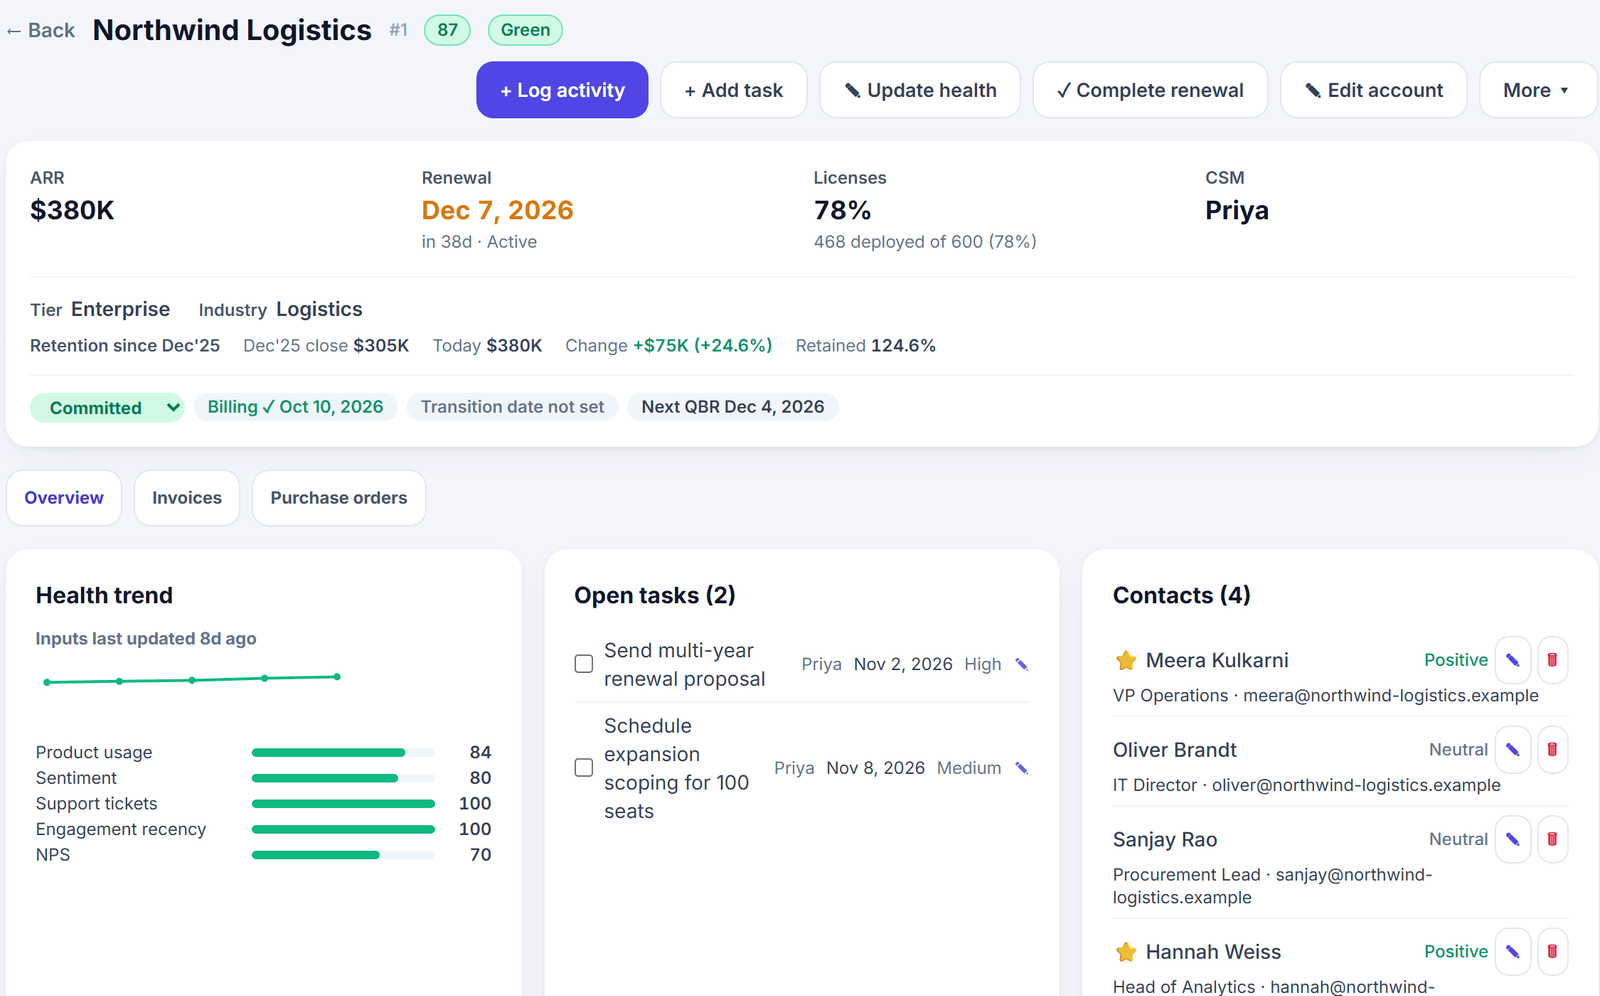
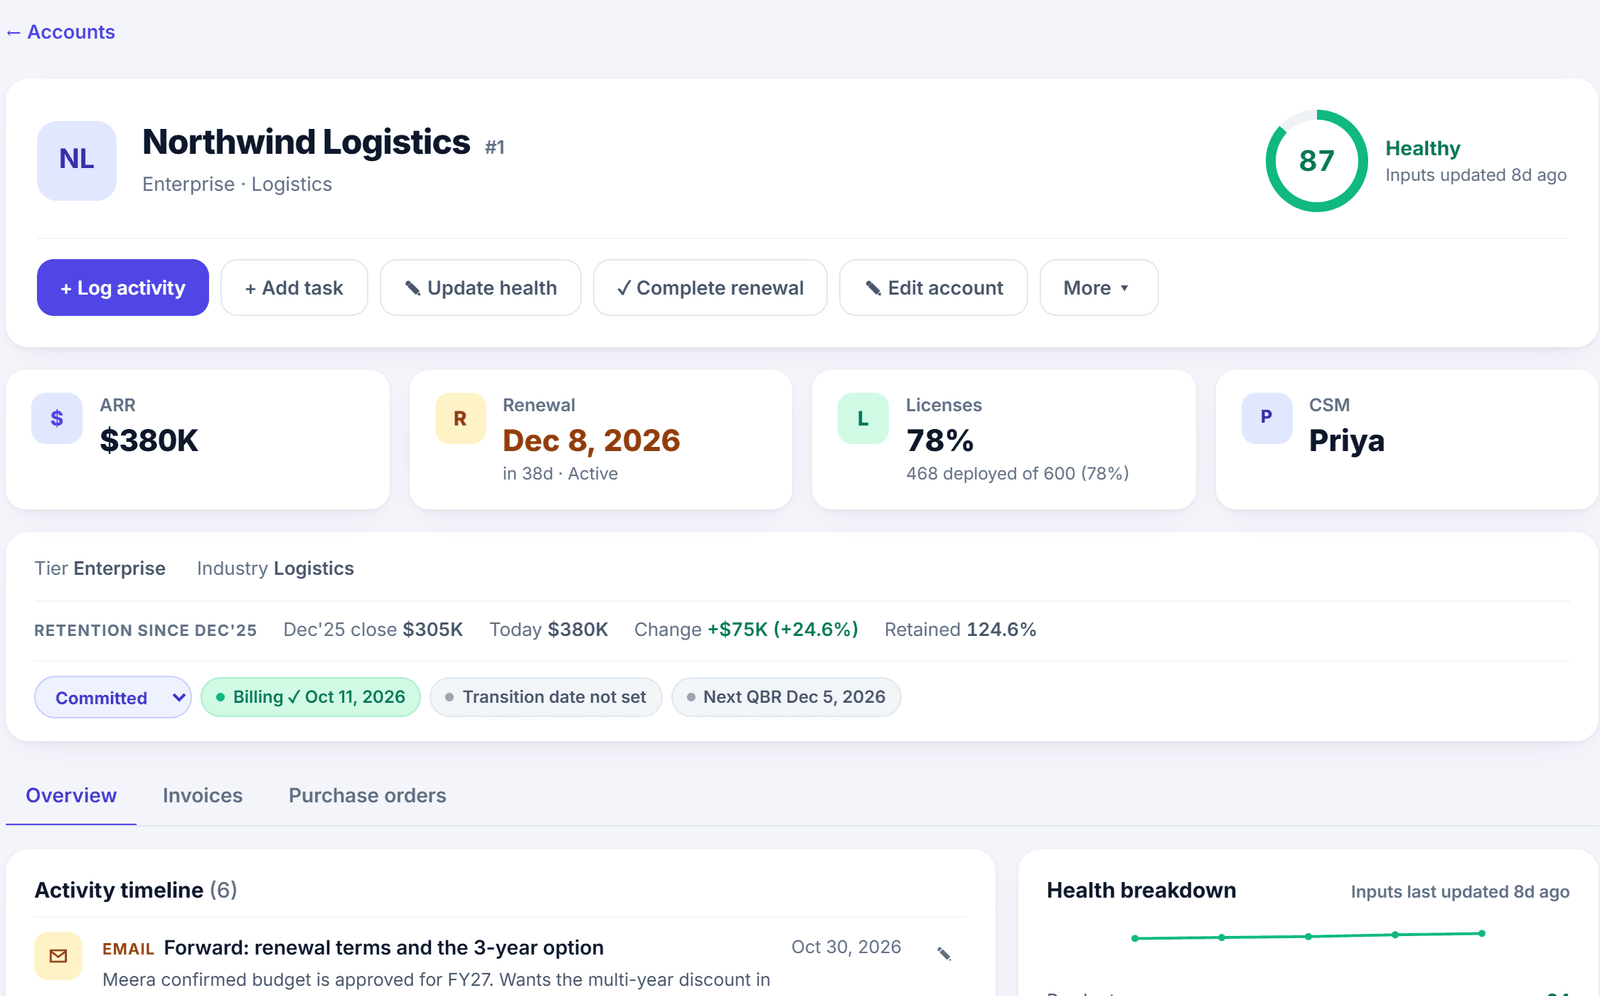
Health page: Stage 4 account screenshot and copy

diff --git a/customer-health-score/index.html b/customer-health-score/index.html
@@ -125,7 +125,14 @@
       <img src="/assets/shots/customer-health-score-1600.png" alt="OneVio accounts list sorted by health score, with Red, Yellow and Green scores beside NRR, GRR and renewal flags" width="1600" height="924" loading="lazy" decoding="async">
     </picture>
   </figure>
-  <p>On the account page, the Health trend card plots the score over time and says when the inputs were last updated, with a prompt to refresh them once they are 30 days old. The date turns amber at 30 days and red at 45: a score built on stale inputs is flagged so you know to refresh it.</p>
+  <h3>Every account on one page</h3>
+  <figure class="browser shot"><div class="chrome" aria-hidden="true"><i></i><i></i><i></i><span class="url">crm.onevio.in</span></div>
+    <picture>
+      <source type="image/webp" srcset="/assets/shots/customer-account-record-800.webp 800w, /assets/shots/customer-account-record-1600.webp 1600w" sizes="(max-width: 760px) calc(100vw - 32px), 720px" width="1600" height="996">
+      <img src="/assets/shots/customer-account-record-1600.png" alt="OneVio account page for Northwind Logistics: health score 87 in a ring marked Healthy, ARR, renewal date, license deployment and CSM cards, retention since last close, the activity timeline and the health breakdown by input" width="1600" height="996" loading="lazy" decoding="async">
+    </picture>
+  </figure>
+  <p>Open an account and its score sits in the header as a ring with the band in words, plus when the inputs were last updated. Below it are ARR, the renewal date with days to go, license deployment and the CSM. The Health breakdown card plots the score over time and shows each input’s score, next to the activity timeline that feeds engagement recency. Inputs older than 30 days get a prompt to refresh them. The date turns amber at 30 days and red at 45, so a score built on stale inputs is flagged.</p>
 
   <h2>Who uses it</h2>
   <p><strong>CSMs</strong> sort their book by score and work the Red and Yellow accounts first. <strong>CS managers</strong> watch the health mix and the bell to see which accounts are sliding before a renewal is in danger. <strong>Leaders</strong> get a score whose weights they signed off, which makes it far easier to bring into a forecast or a QBR. To see how health feeds the rest of the renewal process, read about <a href="/renewal-management/">renewal management</a>. Designing a score from scratch? Read our <a href="/customer-health-score-guide/">step-by-step health score guide</a>.</p>

diff --git a/pages/customer-health-score.html b/pages/customer-health-score.html
@@ -124,7 +124,14 @@
       <img src="/assets/shots/customer-health-score-1600.png" alt="OneVio accounts list sorted by health score, with Red, Yellow and Green scores beside NRR, GRR and renewal flags" width="1600" height="924" loading="lazy" decoding="async">
     </picture>
   </figure>
-  <p>On the account page, the Health trend card plots the score over time and says when the inputs were last updated, with a prompt to refresh them once they are 30 days old. The date turns amber at 30 days and red at 45: a score built on stale inputs is flagged so you know to refresh it.</p>
+  <h3>Every account on one page</h3>
+  <figure class="browser shot"><div class="chrome" aria-hidden="true"><i></i><i></i><i></i><span class="url">crm.onevio.in</span></div>
+    <picture>
+      <source type="image/webp" srcset="/assets/shots/customer-account-record-800.webp 800w, /assets/shots/customer-account-record-1600.webp 1600w" sizes="(max-width: 760px) calc(100vw - 32px), 720px" width="1600" height="996">
+      <img src="/assets/shots/customer-account-record-1600.png" alt="OneVio account page for Northwind Logistics: health score 87 in a ring marked Healthy, ARR, renewal date, license deployment and CSM cards, retention since last close, the activity timeline and the health breakdown by input" width="1600" height="996" loading="lazy" decoding="async">
+    </picture>
+  </figure>
+  <p>Open an account and its score sits in the header as a ring with the band in words, plus when the inputs were last updated. Below it are ARR, the renewal date with days to go, license deployment and the CSM. The Health breakdown card plots the score over time and shows each input’s score, next to the activity timeline that feeds engagement recency. Inputs older than 30 days get a prompt to refresh them. The date turns amber at 30 days and red at 45, so a score built on stale inputs is flagged.</p>
 
   <h2>Who uses it</h2>
   <p><strong>CSMs</strong> sort their book by score and work the Red and Yellow accounts first. <strong>CS managers</strong> watch the health mix and the bell to see which accounts are sliding before a renewal is in danger. <strong>Leaders</strong> get a score whose weights they signed off, which makes it far easier to bring into a forecast or a QBR. To see how health feeds the rest of the renewal process, read about <a href="/renewal-management/">renewal management</a>. Designing a score from scratch? Read our <a href="/customer-health-score-guide/">step-by-step health score guide</a>.</p>
